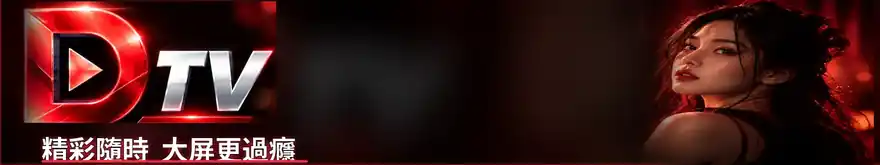
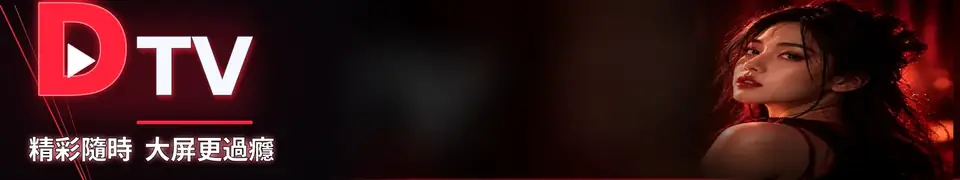
Clarify D TV wordmark and fit panoramic header without stretching

Changed region(s): [[0.0, 0.0, 0.3989, 1.0], [0.3375, 0.3939, 0.3682, 0.4545], [0.767, 0.6667, 0.7977, 0.697]]

diff --git a/lib/home_screen.dart b/lib/home_screen.dart
@@ -832,17 +832,19 @@ class _HomeScreenState extends State<HomeScreen> {
         final television = AppLayout.isTelevision(context);
         final desktop = constraints.maxWidth >= 840;
         final wide = television || desktop;
+        final bannerWidth = (constraints.maxWidth -
+                (constraints.maxWidth >= 1450 ? 600.0 : 530.0))
+            .clamp(300.0, 980.0)
+            .toDouble();
+        final bannerHeight = _brandBannerHeight(constraints.maxWidth);
         final scaffold = Scaffold(
           appBar: AppBar(
-            toolbarHeight: wide ? (television ? 146 : 140) : television ? 64 : null,
+            toolbarHeight: wide ? _brandBannerHeight(constraints.maxWidth) + 12 : television ? 64 : null,
             titleSpacing: 12,
             title: wide
                 ? _homeBrandBanner(
-                    width: (constraints.maxWidth -
-                            (constraints.maxWidth >= 1450 ? 600.0 : 530.0))
-                        .clamp(300.0, 980.0)
-                        .toDouble(),
-                    height: 132,
+                    width: bannerWidth,
+                    height: bannerHeight,
                   )
                 : (
                     _tab == 0 && widget.store.sources.isNotEmpty
@@ -1219,6 +1221,13 @@ class _HomeScreenState extends State<HomeScreen> {
   /// Persistent brand header shared by the TV / desktop views.
   /// The slogan is redrawn larger over the original banner so it remains
   /// readable at living-room viewing distance.
+  double _brandBannerHeight(double width) {
+    final bannerWidth = (width - (width >= 1450 ? 600.0 : 530.0))
+        .clamp(300.0, 980.0)
+        .toDouble();
+    return (bannerWidth / (960 / 180)).clamp(100.0, 180.0).toDouble();
+  }
+
   /// Shared cinematic D TV header used across all wide-screen sections.
   /// The complete logo, woman portrait and larger Taiwan Traditional Chinese
   /// slogan live in one purpose-built panoramic asset.
